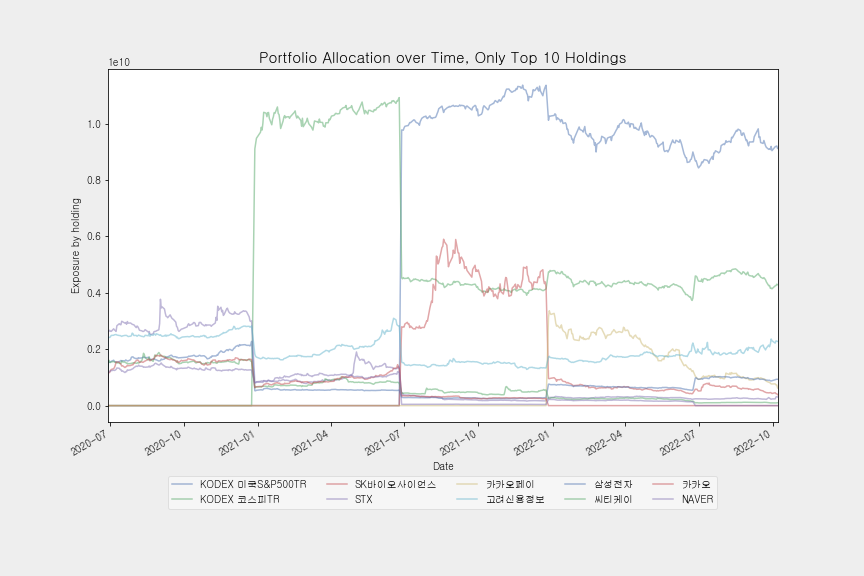
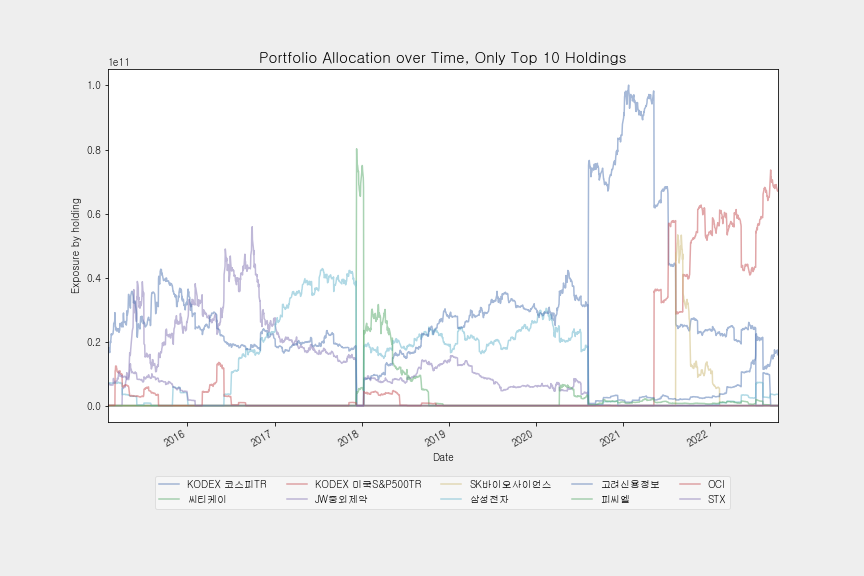
hansung1015

diff --git a/ipynb/Portfolio Report.html b/ipynb/Portfolio Report.html
@@ -1,13 +1,13 @@
 <h1>HUG-Portfolio Reports</h1>
 <p><br></p>
 <h1></h1>
-<h2>01. Portfolio Allocations (2020.1.1~2022.10.10)</h2>
+<h2>01. Portfolio Allocations (2015.1.1~2022.10.12)</h2>
 <p><br><br />
 <strong>최적화된 포트폴리오의 샤프 비율, 시장 베타, 최대 손실폭은 다음과 같다.</strong><br />
 <br><br />
-1. The Sharpe Ratio of the backtest is (샤프 비율): 1.0744<br />
-2. The market beta of the backtest is (시장 베타): 0.6883<br />
-3. The maxmimum drawdown of the backtest is (최대 손실폭): -0.2678<br />
+1. The Sharpe Ratio of the backtest is (샤프 비율): 0.47<br />
+2. The market beta of the backtest is (시장 베타): 0.7108<br />
+3. The maxmimum drawdown of the backtest is (최대 손실폭): -0.427<br />
 <br><br />
 <strong>현재 시점으로 보유 종목의 최적 배분은 다음과 같다.</strong></p>
 <h2></h2>
@@ -22,63 +22,33 @@
 <tbody>
 <tr>
 <td align="left">KODEX 미국S&amp;P500TR</td>
-<td align="right">0.4665</td>
-<td align="right">9124244640</td>
-</tr>
-<tr>
-<td align="left">KODEX 코스피TR</td>
-<td align="right">0.247</td>
-<td align="right">4290349999</td>
-</tr>
-<tr>
-<td align="left">SK바이오사이언스</td>
-<td align="right">0.0313</td>
-<td align="right">387512499</td>
-</tr>
-<tr>
-<td align="left">STX</td>
-<td align="right">0.013</td>
-<td align="right">306842689</td>
+<td align="right">0.8</td>
+<td align="right">67040254799</td>
 </tr>
 <tr>
 <td align="left">고려신용정보</td>
-<td align="right">0.1038</td>
-<td align="right">2277303599</td>
+<td align="right">0.1514</td>
+<td align="right">15903225000</td>
 </tr>
 <tr>
 <td align="left">삼성전자</td>
-<td align="right">0.0525</td>
-<td align="right">934043999</td>
-</tr>
-<tr>
-<td align="left">씨티케이</td>
-<td align="right">0.0054</td>
-<td align="right">101950290</td>
+<td align="right">0.0399</td>
+<td align="right">3526057800</td>
 </tr>
 <tr>
 <td align="left">아프리카TV</td>
-<td align="right">0.0028</td>
-<td align="right">44092000</td>
+<td align="right">0.002</td>
+<td align="right">176384600</td>
 </tr>
 <tr>
-<td align="left">카카오페이</td>
-<td align="right">0.0561</td>
-<td align="right">626883300</td>
-</tr>
-<tr>
-<td align="left">피씨엘</td>
-<td align="right">0.006</td>
-<td align="right">69825859</td>
-</tr>
-<tr>
-<td align="left">한탑</td>
-<td align="right">0.0157</td>
-<td align="right">199316039</td>
+<td align="left">카카오</td>
+<td align="right">0.0066</td>
+<td align="right">432448749</td>
 </tr>
 <tr>
 <td align="left">현금</td>
 <td align="right">0</td>
-<td align="right">-1615419</td>
+<td align="right">9390841</td>
 </tr>
 </tbody>
 </table>
@@ -102,55 +72,55 @@
 <tbody>
 <tr>
 <td align="left">연간 수익률 (Annual return)</td>
-<td align="left">19.491%</td>
+<td align="left">9.076%</td>
 </tr>
 <tr>
 <td align="left">누적 수익률 (Cumulative returns)</td>
-<td align="left">48.86%</td>
+<td align="left">91.981%</td>
 </tr>
 <tr>
 <td align="left">연간 변동성 (Annual volatility)</td>
-<td align="left">18.098%</td>
+<td align="left">25.224%</td>
 </tr>
 <tr>
 <td align="left">샤프 비율 (Sharpe ratio)</td>
-<td align="left">1.0743790687487182</td>
+<td align="left">0.4700147254515945</td>
 </tr>
 <tr>
 <td align="left">칼마 비율 (Calmar ratio)</td>
-<td align="left">0.7278458106711917</td>
+<td align="left">0.21253923543936631</td>
 </tr>
 <tr>
 <td align="left">안정성 (Stability)</td>
-<td align="left">0.4871871354971548</td>
+<td align="left">0.3425502284748495</td>
 </tr>
 <tr>
 <td align="left">최대 손실 폭 (Max drawdown)</td>
-<td align="left">-26.779%</td>
+<td align="left">-42.701%</td>
 </tr>
 <tr>
 <td align="left">오메가 비율 (Omega ratio)</td>
-<td align="left">1.1936507988286276</td>
+<td align="left">1.0933716702539404</td>
 </tr>
 <tr>
 <td align="left">솔티노 비율 (Sortino ratio)</td>
-<td align="left">1.6330162675504678</td>
+<td align="left">0.6956968800845439</td>
 </tr>
 <tr>
 <td align="left">왜도 (Skew)</td>
-<td align="left">0.2934547166980577</td>
+<td align="left">0.420060910379529</td>
 </tr>
 <tr>
 <td align="left">첨도 (Kurtosis)</td>
-<td align="left">2.01522709140019</td>
+<td align="left">5.11996529128017</td>
 </tr>
 <tr>
 <td align="left">테일 비율 (Tail ratio)</td>
-<td align="left">1.0380308903873063</td>
+<td align="left">0.9577076397204622</td>
 </tr>
 <tr>
 <td align="left">일별 VaR (Daily value at risk)</td>
-<td align="left">-2.203%</td>
+<td align="left">-3.131%</td>
 </tr>
 </tbody>
 </table>
@@ -182,16 +152,36 @@
 </thead>
 <tbody>
 <tr>
+<td align="right">2015</td>
+<td align="right">0.451919</td>
+</tr>
+<tr>
+<td align="right">2016</td>
+<td align="right">0.153189</td>
+</tr>
+<tr>
+<td align="right">2017</td>
+<td align="right">-0.00725839</td>
+</tr>
+<tr>
+<td align="right">2018</td>
+<td align="right">-0.187121</td>
+</tr>
+<tr>
+<td align="right">2019</td>
+<td align="right">0.135989</td>
+</tr>
+<tr>
 <td align="right">2020</td>
-<td align="right">0.320745</td>
+<td align="right">0.311503</td>
 </tr>
 <tr>
 <td align="right">2021</td>
-<td align="right">0.423421</td>
+<td align="right">0.0759266</td>
 </tr>
 <tr>
 <td align="right">2022</td>
-<td align="right">-0.208181</td>
+<td align="right">-0.113604</td>
 </tr>
 </tbody>
 </table>
@@ -225,43 +215,43 @@
 <tbody>
 <tr>
 <td align="right">0</td>
-<td align="right">26.7793</td>
+<td align="right">42.7012</td>
+<td align="left">2016-09-29 00:00:00</td>
+<td align="left">2020-03-23 00:00:00</td>
+<td align="left">2021-01-05 00:00:00</td>
+<td align="right">1114</td>
+</tr>
+<tr>
+<td align="right">1</td>
+<td align="right">37.95</td>
+<td align="left">2015-05-21 00:00:00</td>
+<td align="left">2016-02-17 00:00:00</td>
+<td align="left">2016-09-27 00:00:00</td>
+<td align="right">354</td>
+</tr>
+<tr>
+<td align="right">2</td>
+<td align="right">26.8207</td>
 <td align="left">2021-09-03 00:00:00</td>
-<td align="left">2022-07-01 00:00:00</td>
+<td align="left">2022-06-17 00:00:00</td>
 <td align="left">NaT</td>
 <td align="right">nan</td>
 </tr>
 <tr>
-<td align="right">1</td>
-<td align="right">9.90947</td>
-<td align="left">2020-09-02 00:00:00</td>
-<td align="left">2020-10-30 00:00:00</td>
-<td align="left">2020-11-24 00:00:00</td>
-<td align="right">60</td>
-</tr>
-<tr>
-<td align="right">2</td>
-<td align="right">6.59021</td>
-<td align="left">2021-02-16 00:00:00</td>
-<td align="left">2021-03-09 00:00:00</td>
-<td align="left">2021-04-02 00:00:00</td>
-<td align="right">34</td>
-</tr>
-<tr>
 <td align="right">3</td>
-<td align="right">5.73141</td>
+<td align="right">8.13579</td>
 <td align="left">2021-01-25 00:00:00</td>
-<td align="left">2021-01-29 00:00:00</td>
-<td align="left">2021-02-16 00:00:00</td>
-<td align="right">17</td>
+<td align="left">2021-03-25 00:00:00</td>
+<td align="left">2021-05-10 00:00:00</td>
+<td align="right">76</td>
 </tr>
 <tr>
 <td align="right">4</td>
-<td align="right">4.77639</td>
-<td align="left">2021-05-10 00:00:00</td>
-<td align="left">2021-05-24 00:00:00</td>
-<td align="left">2021-06-03 00:00:00</td>
-<td align="right">19</td>
+<td align="right">7.18792</td>
+<td align="left">2021-08-19 00:00:00</td>
+<td align="left">2021-08-25 00:00:00</td>
+<td align="left">2021-09-03 00:00:00</td>
+<td align="right">12</td>
 </tr>
 </tbody>
 </table>

diff --git a/ipynb/Portfolio Report.md b/ipynb/Portfolio Report.md
@@ -5,31 +5,25 @@ HUG-Portfolio Reports
 <br>
 # 
 
-## 01. Portfolio Allocations (2020.1.1~2022.10.10)
+## 01. Portfolio Allocations (2015.1.1~2022.10.12)
   
 <br>  
 **최적화된 포트폴리오의 샤프 비율, 시장 베타, 최대 손실폭은 다음과 같다.**  
 <br>  
-1. The Sharpe Ratio of the backtest is (샤프 비율): 1.0744  
-2. The market beta of the backtest is (시장 베타): 0.6883  
-3. The maxmimum drawdown of the backtest is (최대 손실폭): -0.2678  
+1. The Sharpe Ratio of the backtest is (샤프 비율): 0.47  
+2. The market beta of the backtest is (시장 베타): 0.7108  
+3. The maxmimum drawdown of the backtest is (최대 손실폭): -0.427  
 <br>  
 **현재 시점으로 보유 종목의 최적 배분은 다음과 같다.**
 ## 
-|                    |   Allocations |    Balance |
-|:-------------------|--------------:|-----------:|
-| KODEX 미국S&P500TR |        0.4665 | 9124244640 |
-| KODEX 코스피TR     |        0.247  | 4290349999 |
-| SK바이오사이언스   |        0.0313 |  387512499 |
-| STX                |        0.013  |  306842689 |
-| 고려신용정보       |        0.1038 | 2277303599 |
-| 삼성전자           |        0.0525 |  934043999 |
-| 씨티케이           |        0.0054 |  101950290 |
-| 아프리카TV         |        0.0028 |   44092000 |
-| 카카오페이         |        0.0561 |  626883300 |
-| 피씨엘             |        0.006  |   69825859 |
-| 한탑               |        0.0157 |  199316039 |
-| 현금               |        0      |   -1615419 |
+|                    |   Allocations |     Balance |
+|:-------------------|--------------:|------------:|
+| KODEX 미국S&P500TR |        0.8    | 67040254799 |
+| 고려신용정보       |        0.1514 | 15903225000 |
+| 삼성전자           |        0.0399 |  3526057800 |
+| 아프리카TV         |        0.002  |   176384600 |
+| 카카오             |        0.0066 |   432448749 |
+| 현금               |        0      |     9390841 |
 
 ### 
 
@@ -45,21 +39,21 @@ HUG-Portfolio Reports
 <br>  
 포트폴리오 전체 기간에 대한 측정 항목 및 통계량은 다음과 같다.
 ## 
-|                                  | 성과 통계량        |
-|:---------------------------------|:-------------------|
-| 연간 수익률 (Annual return)      | 19.491%            |
-| 누적 수익률 (Cumulative returns) | 48.86%             |
-| 연간 변동성 (Annual volatility)  | 18.098%            |
-| 샤프 비율 (Sharpe ratio)         | 1.0743790687487182 |
-| 칼마 비율 (Calmar ratio)         | 0.7278458106711917 |
-| 안정성 (Stability)               | 0.4871871354971548 |
-| 최대 손실 폭 (Max drawdown)      | -26.779%           |
-| 오메가 비율 (Omega ratio)        | 1.1936507988286276 |
-| 솔티노 비율 (Sortino ratio)      | 1.6330162675504678 |
-| 왜도 (Skew)                      | 0.2934547166980577 |
-| 첨도 (Kurtosis)                  | 2.01522709140019   |
-| 테일 비율 (Tail ratio)           | 1.0380308903873063 |
-| 일별 VaR (Daily value at risk)   | -2.203%            |
+|                                  | 성과 통계량         |
+|:---------------------------------|:--------------------|
+| 연간 수익률 (Annual return)      | 9.076%              |
+| 누적 수익률 (Cumulative returns) | 91.981%             |
+| 연간 변동성 (Annual volatility)  | 25.224%             |
+| 샤프 비율 (Sharpe ratio)         | 0.4700147254515945  |
+| 칼마 비율 (Calmar ratio)         | 0.21253923543936631 |
+| 안정성 (Stability)               | 0.3425502284748495  |
+| 최대 손실 폭 (Max drawdown)      | -42.701%            |
+| 오메가 비율 (Omega ratio)        | 1.0933716702539404  |
+| 솔티노 비율 (Sortino ratio)      | 0.6956968800845439  |
+| 왜도 (Skew)                      | 0.420060910379529   |
+| 첨도 (Kurtosis)                  | 5.11996529128017    |
+| 테일 비율 (Tail ratio)           | 0.9577076397204622  |
+| 일별 VaR (Daily value at risk)   | -3.131%             |
 
 ### 
 
@@ -89,11 +83,16 @@ HUG-Portfolio Reports
 <br>  
 포트폴리오의 연도별 Returns는 다음과 같다.
 ### 
-|      |    Return |
-|-----:|----------:|
-| 2020 |  0.320745 |
-| 2021 |  0.423421 |
-| 2022 | -0.208181 |
+|      |      Return |
+|-----:|------------:|
+| 2015 |  0.451919   |
+| 2016 |  0.153189   |
+| 2017 | -0.00725839 |
+| 2018 | -0.187121   |
+| 2019 |  0.135989   |
+| 2020 |  0.311503   |
+| 2021 |  0.0759266  |
+| 2022 | -0.113604   |
 
 #### [표 3] 연도별 Returns
   
@@ -117,11 +116,11 @@ HUG-Portfolio Reports
 ### 
 |    |   Net drawdown in % | Peak date           | Valley date         | Recovery date       |   Duration |
 |---:|--------------------:|:--------------------|:--------------------|:--------------------|-----------:|
-|  0 |            26.7793  | 2021-09-03 00:00:00 | 2022-07-01 00:00:00 | NaT                 |        nan |
-|  1 |             9.90947 | 2020-09-02 00:00:00 | 2020-10-30 00:00:00 | 2020-11-24 00:00:00 |         60 |
-|  2 |             6.59021 | 2021-02-16 00:00:00 | 2021-03-09 00:00:00 | 2021-04-02 00:00:00 |         34 |
-|  3 |             5.73141 | 2021-01-25 00:00:00 | 2021-01-29 00:00:00 | 2021-02-16 00:00:00 |         17 |
-|  4 |             4.77639 | 2021-05-10 00:00:00 | 2021-05-24 00:00:00 | 2021-06-03 00:00:00 |         19 |
+|  0 |            42.7012  | 2016-09-29 00:00:00 | 2020-03-23 00:00:00 | 2021-01-05 00:00:00 |       1114 |
+|  1 |            37.95    | 2015-05-21 00:00:00 | 2016-02-17 00:00:00 | 2016-09-27 00:00:00 |        354 |
+|  2 |            26.8207  | 2021-09-03 00:00:00 | 2022-06-17 00:00:00 | NaT                 |        nan |
+|  3 |             8.13579 | 2021-01-25 00:00:00 | 2021-03-25 00:00:00 | 2021-05-10 00:00:00 |         76 |
+|  4 |             7.18792 | 2021-08-19 00:00:00 | 2021-08-25 00:00:00 | 2021-09-03 00:00:00 |         12 |
 
 #### [표 4] Top 5 하락 기간
   
